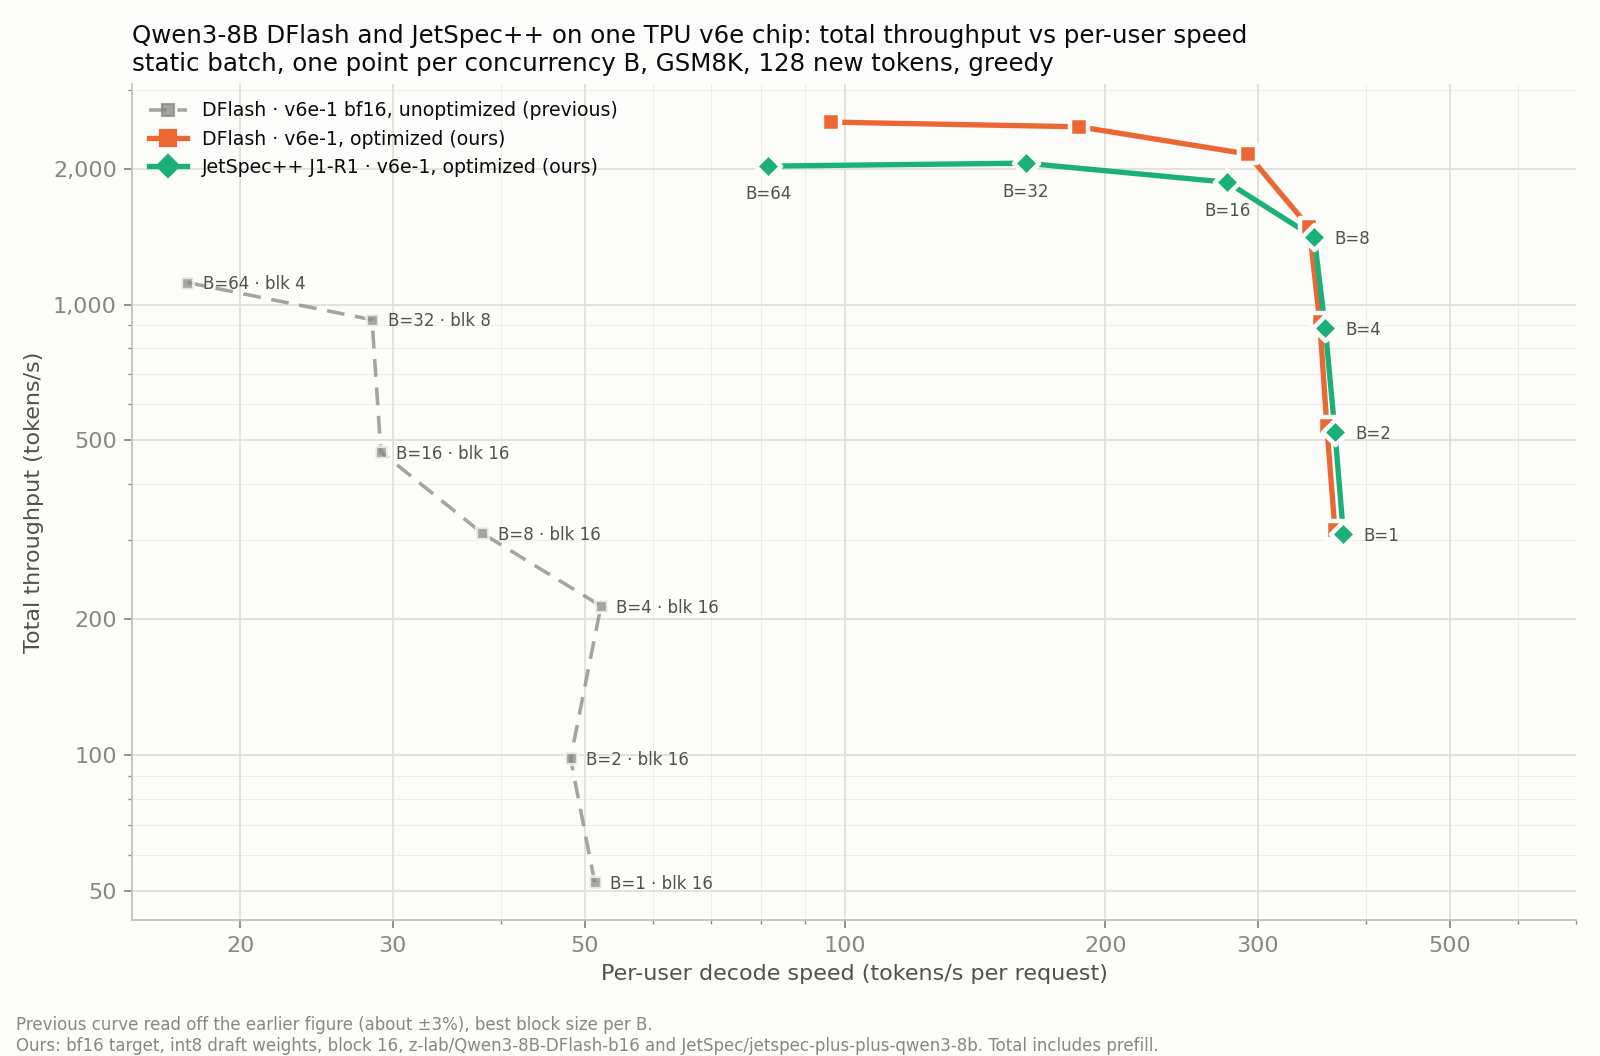
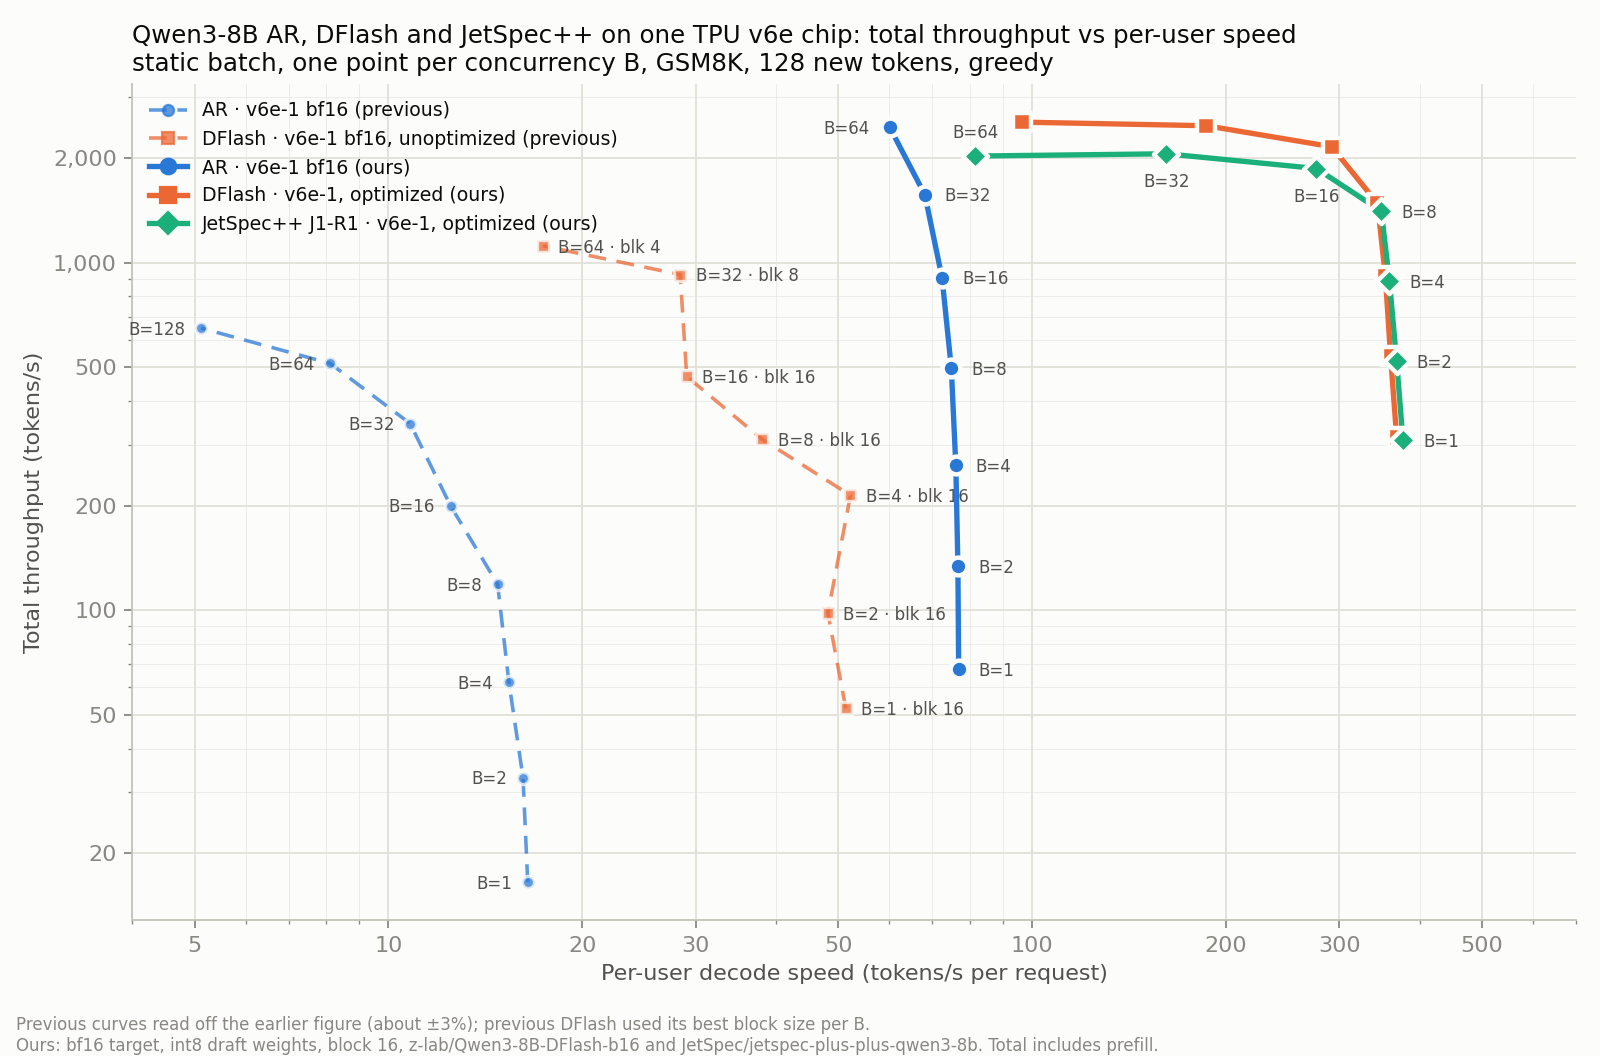
[DOCS] Add AR (previous and ours) to the static-batch v6e-1 frontier
Claude-Session: https://claude.ai/code/session_01QwkRBNHCTnFsc35H9SAqPE

diff --git a/jetspec/engines/jetspec_plus_plus_tpu/README.md b/jetspec/engines/jetspec_plus_plus_tpu/README.md
@@ -79,23 +79,26 @@ Losslessness: every output was compared with AR at B=1. Each one is either ident
 diverges where the two tokens are the target's top 2 (logit gap of at most 0.33). AR at B=2 already
 diverges from AR at B=1 on 41 of 128 requests in the same way, so batch shape alone flips these bf16 ties.
 
-### Against the earlier unoptimized DFlash on v6e-1
+### Against the earlier unoptimized AR and DFlash on v6e-1
 
 ![Static-batch frontier](assets/frontier_static128_v6e.png)
 
 Static batch of B prompts, GSM8K, 128 new tokens, greedy. Per-user is decode tok/s per request; total
-includes prefill. The previous DFlash curve is read off an earlier figure (about 3%); it used its best block
-size per B. Ours uses block 16 and int8 draft weights. Data: `assets/frontier_static128_v6e.json`.
+includes prefill. The previous AR and DFlash curves are read off an earlier figure (about 3%); the previous
+DFlash used its best block size per B. Ours uses block 16 and int8 draft weights.
+Data: `assets/frontier_static128_v6e.json`.
 
-| B | previous DFlash total / per-user | DFlash (ours) total / per-user | JetSpec++ J1-R1 total / per-user |
-|---:|---:|---:|---:|
-| 1 | ~52 / ~51 | 316 / 369 | 309 / **377** |
-| 4 | ~214 / ~52 | 916 / 354 | 887 / **359** |
-| 16 | ~475 / ~29 | **2158 / 292** | 1868 / 277 |
-| 64 | ~1110 / ~17 | **2540 / 96** | 2029 / 82 |
+| B | previous AR | AR (ours) | previous DFlash | DFlash (ours) | JetSpec++ J1-R1 (ours) |
+|---:|---:|---:|---:|---:|---:|
+| 1 | ~17 / ~17 | 68 / 77 | ~52 / ~51 | 316 / 369 | 309 / **377** |
+| 4 | ~62 / ~15 | 261 / 76 | ~214 / ~52 | 916 / 354 | 887 / **359** |
+| 16 | ~200 / ~13 | 906 / 73 | ~475 / ~29 | **2158 / 292** | 1868 / 277 |
+| 64 | ~511 / ~8 | 2457 / 60 | ~1110 / ~17 | **2540 / 96** | 2029 / 82 |
 
-The same DFlash model runs about 7x faster per user at B=1 and 2.3x higher in total at B=64. JetSpec++ leads
-per user by 1-2% up to B=8 and trails by 13-20% from B=16, where the extra refinement passes become compute-bound.
+Each cell is total / per-user tok/s. Our AR is about 4.7x the previous AR per user at B=1, and the same DFlash
+model is about 7x the previous DFlash. JetSpec++ leads per user by 1-2% up to B=8 and trails DFlash by 13-20%
+from B=16, where the extra refinement passes become compute-bound. At B=64, AR (ours) nearly matches both
+speculative methods in total throughput, at well under their per-user speed.
 
 ## How one chip changes the method
 
